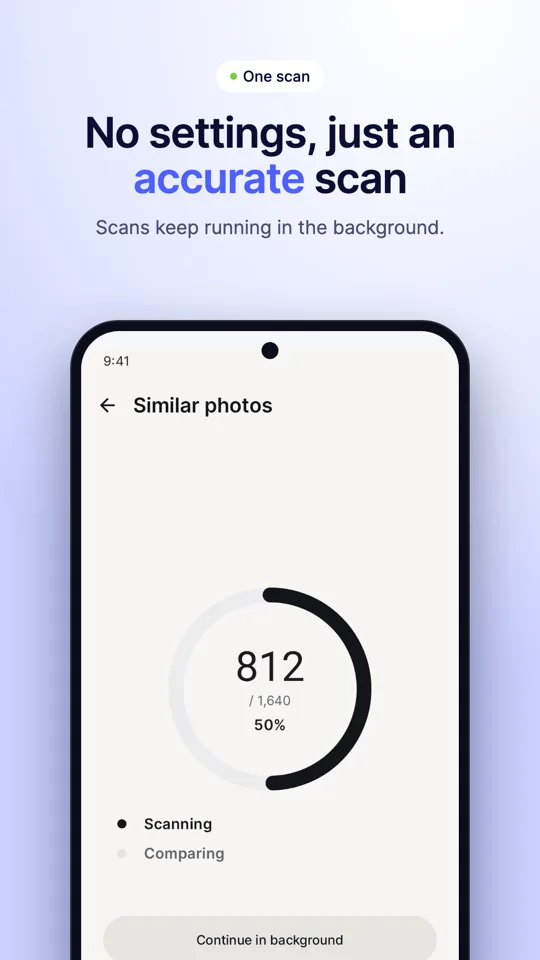
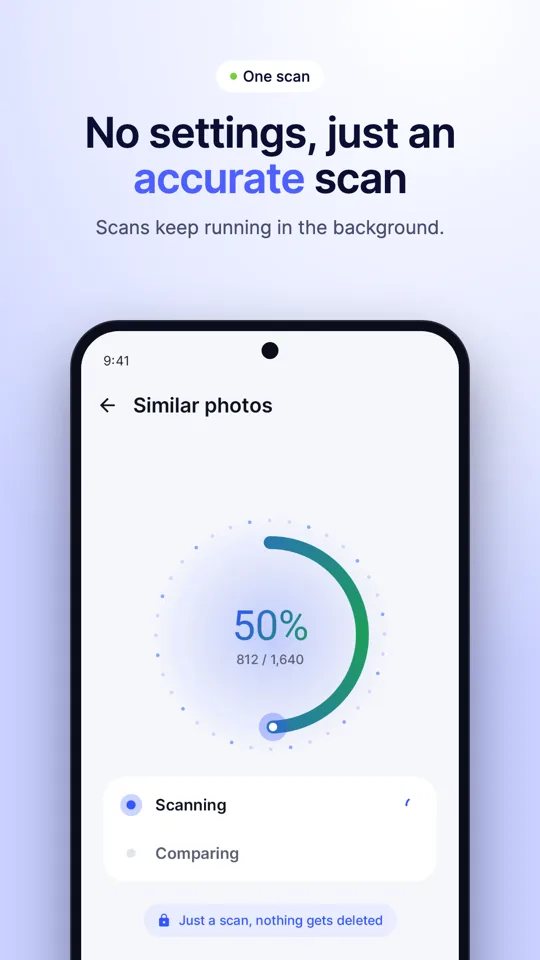
site: CleanPix 3.5.3 screenshots 3 (Start scan Home) and 5 (scan progress); scan step says we notify when done, swipe line names the delete confirmation, scan tile crop shows the full ring (tr/en)

Changed region(s): [[0.3556, 0.5312, 0.7111, 0.8438], [0.1778, 0.9375, 0.8, 1.0], [0.2074, 0.8125, 0.4444, 0.9062]]

diff --git a/resources/views/apps/cleanpix.blade.php b/resources/views/apps/cleanpix.blade.php
@@ -21,7 +21,7 @@
     $freed = array_sum(array_column($roll, 'frees'));
 
     $stages = [
-        ['name' => 'Tara', 'text' => 'Tek dokunuşla tara; seçilecek mod ya da ayar yok. İlerleme yüzde olarak görünür, tarama arka planda sürer.', 'shot' => 5],
+        ['name' => 'Tara', 'text' => 'Tek dokunuşla tara; seçilecek mod ya da ayar yok. İlerleme yüzde olarak görünür, tarama arka planda sürer, bitince haber veririz.', 'shot' => 5],
         ['name' => 'Grupla', 'text' => 'Seri çekimler ve birbirine çok benzeyen kareler yan yana gruplanır; her grubun orijinali işaretlenir. Boş duvar ya da karanlık kare gibi sıradan çekimler gruplanmaz.', 'shot' => 1],
         ['name' => 'Seç', 'text' => 'Kopyalar kapladıkları yerle birlikte seçili gelir, orijinal korunur. İstersen Akıllı seçim her gruptaki en iyi fotoğrafı tutar.', 'shot' => 2],
         ['name' => 'Karşılaştır', 'text' => 'Bir grubu tam ekranda aç ve silmeden önce kareler arasında kaydır. Neyin kalacağına sen karar verirsin.', 'shot' => 6],
@@ -30,7 +30,7 @@
 
     // Each tile is a crop of a real screenshot (540×960): [x, y, w, h] in its pixels, and the window's width in the tile.
     $tiles = [
-        ['name' => 'Tek, hassas tarama', 'fact' => 'Ayar yok; ilerleme yüzde olarak görünür.', 'shot' => 5, 'crop' => [96, 570, 348, 310], 'width' => 50, 'wide' => true],
+        ['name' => 'Tek, hassas tarama', 'fact' => 'Ayar yok; ilerleme yüzde olarak görünür.', 'shot' => 5, 'crop' => [96, 490, 348, 400], 'width' => 50, 'wide' => true],
         ['name' => 'Kopyalar seçili gelir', 'fact' => 'Orijinal korunur, kopyalar tek dokunuşla gider.', 'shot' => 2, 'crop' => [96, 520, 348, 390], 'width' => 70],
         ['name' => 'Depolama bir bakışta', 'fact' => 'Telefonunda ne kadar yer kullandığını tarama başlamadan gör.', 'shot' => 3, 'crop' => [96, 462, 348, 180], 'width' => 60, 'wide' => true],
         ['name' => 'Tam ekran karşılaştırma', 'fact' => 'Silmeden önce her kareye büyük bak.', 'shot' => 6, 'crop' => [82, 370, 376, 560], 'width' => 58],

diff --git a/config/apps.php b/config/apps.php
@@ -31,7 +31,7 @@ return [
             'Tek, hassas tarama: ayar ya da mod yok; boş duvar, karanlık kare gibi sıradan çekimler gruplanmaz, ilerleme yüzde olarak görünür',
             'Kopyalar boyutlarıyla seçili gelir, orijinal korunur; tek dokunuşla temizle',
             'Eski ekran görüntülerini ve büyük videoları temizle: Depolama dökümü 3 aydan eski ekran görüntülerini ve 100 MB üstü videoları bulur, birkaç dokunuşla yer açarsın.',
-            'Kaydırarak temizle: silmek için sola, tutmak için sağa kaydır; son seçimi geri al',
+            'Kaydırarak temizle: silmek için sola, tutmak için sağa kaydır; son seçimi geri al; silmeden önce telefonun onayı istenir',
             'Bitti ekranı açılan yeri gösterir, sıradaki temizliği önerir: benzer fotoğraflar, eski ekran görüntüleri, büyük videolar',
             'Silme kararı tamamen sende',
             'Fotoğraflar cihazından hiç çıkmaz',
